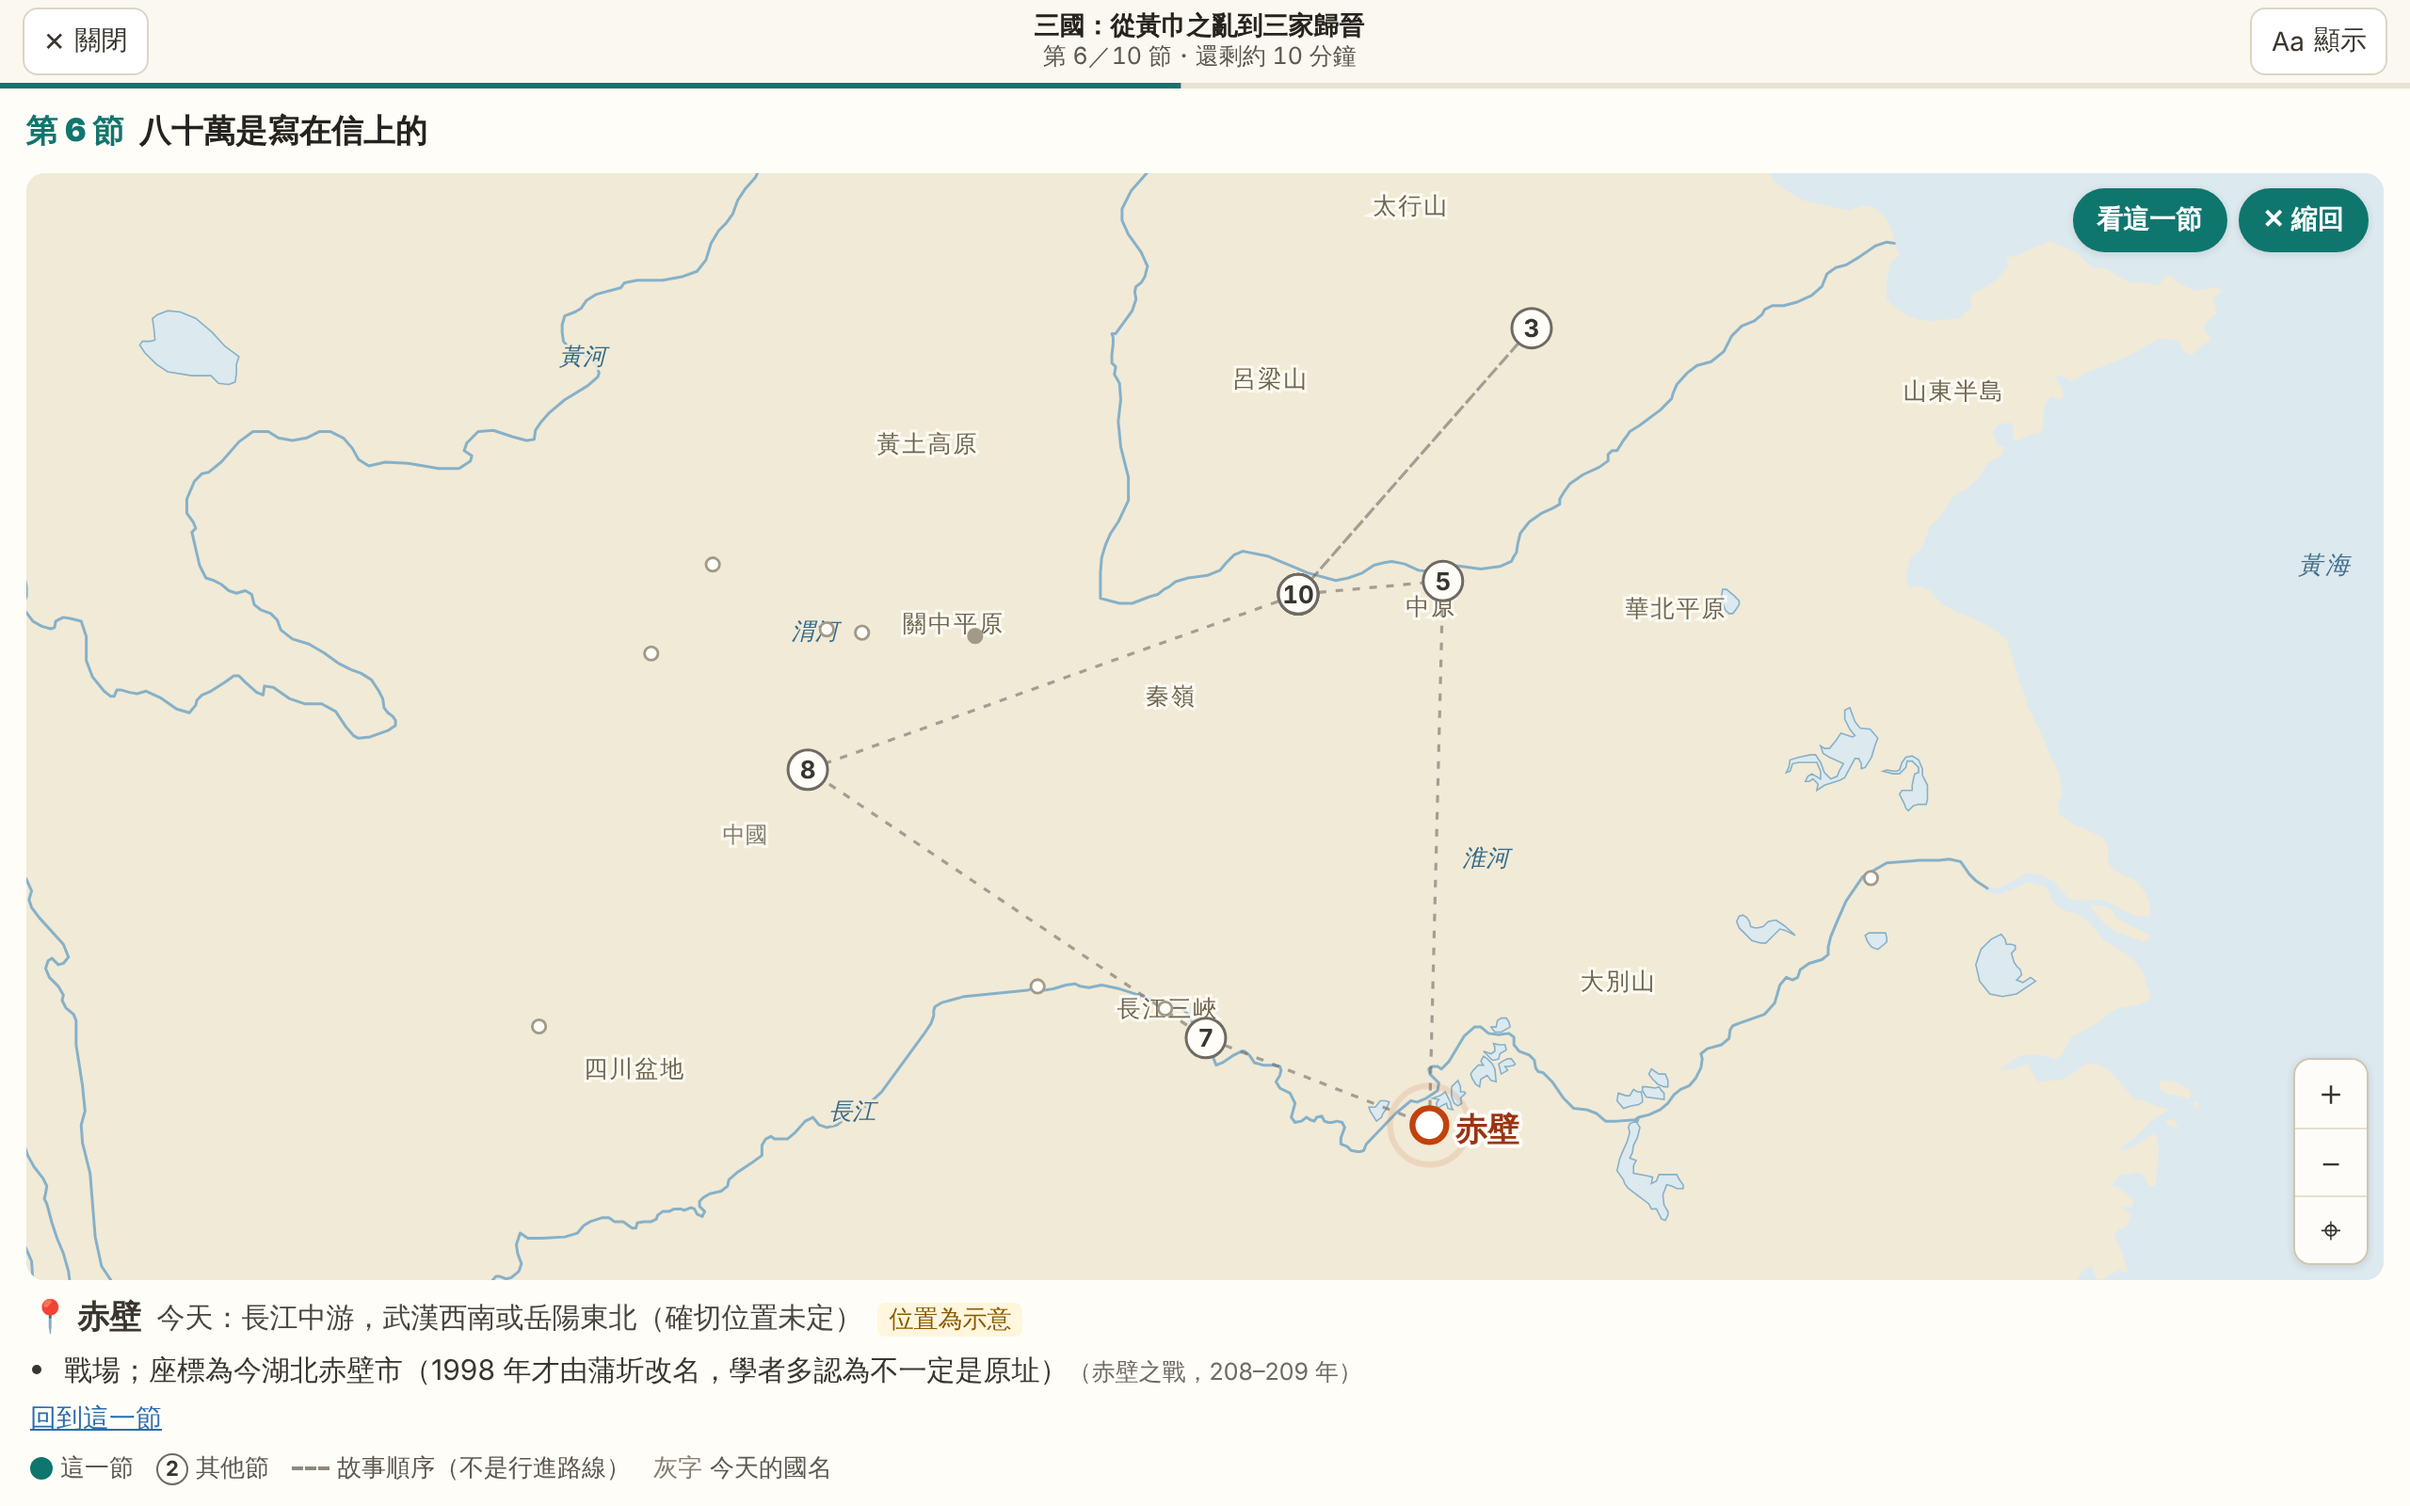
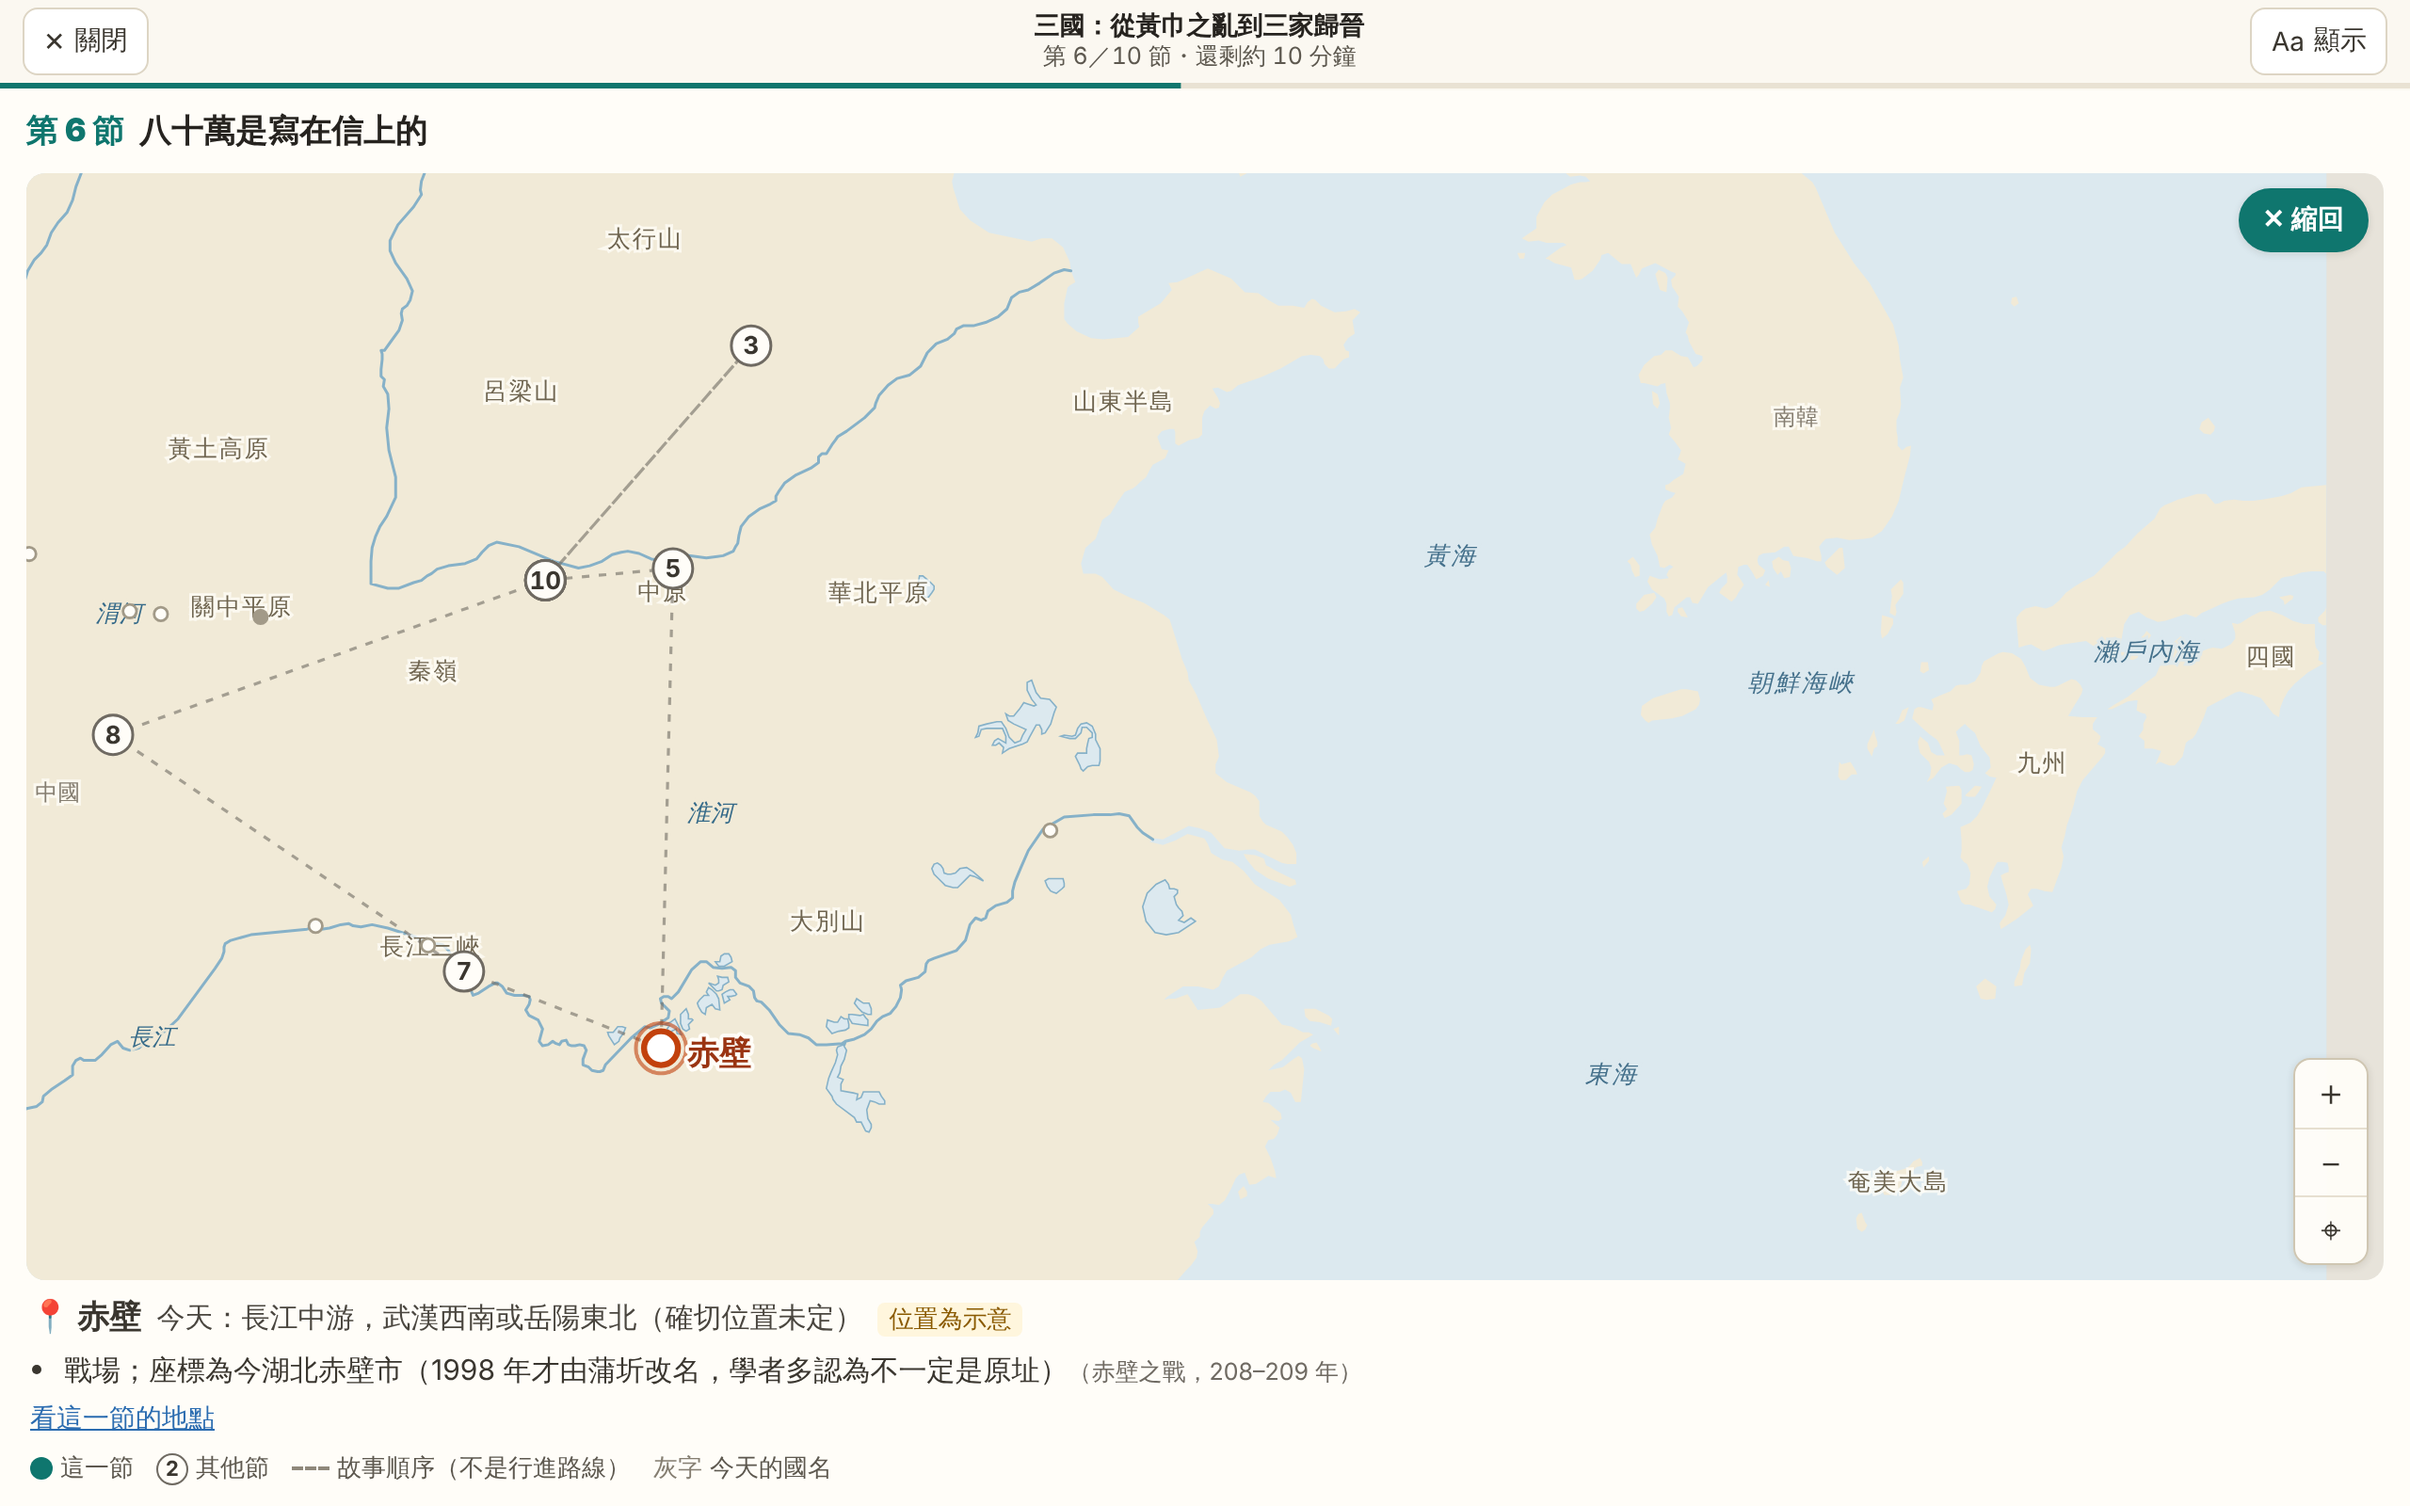
故事地圖畫面固定：換節不移動，只有點變色，移動縮放由讀者自己來；文字欄在左邊區域置中
Claude-Session: https://claude.ai/code/session_01JFJ5rc4L6ADBaQRGoxqdCd

diff --git a/src/components/StoryMap.tsx b/src/components/StoryMap.tsx
@@ -50,10 +50,9 @@ const LABEL_FS: Record<string, number> = { o: 13, r: 12.5, c: 12, v: 12.5 };
 export const StoryMap = memo(function StoryMap({ doc, byId, sec, hot, focus, onFocus, onSection, compact }: Props) {
   const [data, setData] = useState<StoryMapData | null>(null);
   const [failed, setFailed] = useState(false);
-  const [all, setAll] = useState(false);
   // 放大：整個畫面都是地圖（Esc 或「縮回」關掉）
   const [big, setBig] = useState(false);
-  // 讀者自己拖曳、縮放過；換節或按「回到這一節」就回到自動
+  // ⌖ 按一次加一，地圖回到整篇故事的範圍
   const [reset, setReset] = useState(0);
   const dragged = useRef(false);
   const box = useRef<HTMLDivElement>(null);
@@ -69,7 +68,6 @@ export const StoryMap = memo(function StoryMap({ doc, byId, sec, hot, focus, onF
     setSize({ w: el.clientWidth, h: el.clientHeight });
     return () => ro.disconnect();
   }, []);
-  useEffect(() => { setAll(false); }, [sec]);
   useEffect(() => {
     if (!big) return;
     const onKey = (e: KeyboardEvent) => { if (e.key === 'Escape') { e.stopPropagation(); setBig(false); } };
@@ -78,31 +76,39 @@ export const StoryMap = memo(function StoryMap({ doc, byId, sec, hot, focus, onF
   }, [big]);
 
   const secPlaces = useMemo(() => places.map((p, i) => (p.secs.includes(sec) ? i : -1)).filter((i) => i >= 0), [places, sec]);
-  // 目標畫面：這一節（加上讀者點的地點）或全篇
-  const target = useMemo(() => {
-    const ids = all || !secPlaces.length ? places.map((_, i) => i) : [...secPlaces, ...(focus != null && !secPlaces.includes(focus) ? [focus] : [])];
-    return fit(ids.map((i) => [places[i].lat, places[i].lng]), size.w, size.h, 0.14);
-    // eslint-disable-next-line react-hooks/exhaustive-deps
-  }, [all, secPlaces, places, focus, size, reset]);
-
-  // 換節時地圖平滑移過去（約 0.45 秒）；不喜歡動畫的人直接跳
-  const [view, setView] = useState<View>(target);
+  // 地圖畫面固定（ZL 2026-11-14）：一開始放進整篇故事的所有地點，換節時畫面不動，只有點的顏色變；
+  // 要移動、縮放由讀者自己來（拖曳、滾輪、兩指、＋－），⌖ 回到整篇的範圍
+  const [view, setView] = useState<View>({ cx: 128, cy: 100, k: 1 });
   const cur = useRef(view); cur.current = view;
-  const first = useRef(true);
-  useEffect(() => {
-    if (size.w <= 0) return;
+  const fitted = useRef(false);
+  const animTo = (b: View) => {
     const reduce = typeof matchMedia === 'function' && matchMedia('(prefers-reduced-motion: reduce)').matches;
-    if (first.current || reduce) { first.current = false; setView(target); return; }
-    const a = cur.current, b = target, t0 = performance.now();
-    let raf = 0;
+    if (reduce) { setView(b); return; }
+    const a = cur.current, t0 = performance.now();
     const step = (now: number) => {
-      const t = Math.min(1, (now - t0) / 450), e = 1 - (1 - t) ** 3;
+      const t = Math.min(1, (now - t0) / 400), e = 1 - (1 - t) ** 3;
       setView({ cx: a.cx + (b.cx - a.cx) * e, cy: a.cy + (b.cy - a.cy) * e, k: Math.exp(Math.log(a.k) + (Math.log(b.k) - Math.log(a.k)) * e) });
-      if (t < 1) raf = requestAnimationFrame(step);
+      if (t < 1) requestAnimationFrame(step);
     };
-    raf = requestAnimationFrame(step);
-    return () => cancelAnimationFrame(raf);
-  }, [target, size.w]);
+    requestAnimationFrame(step);
+  };
+  const whole = () => fit(places.map((p) => [p.lat, p.lng]), size.w, size.h, 0.08);
+  useEffect(() => { if (size.w > 0 && !fitted.current) { fitted.current = true; setView(whole()); } }, [size.w]); // eslint-disable-line react-hooks/exhaustive-deps
+  // 地圖框變大變小（下方說明行數不同、放大成全螢幕）時，左上角固定，地圖內容不跟著跑
+  const prevSize = useRef(size);
+  useEffect(() => {
+    const a = prevSize.current; prevSize.current = size;
+    if (!fitted.current || a.w <= 0 || (a.w === size.w && a.h === size.h)) return;
+    setView((v) => ({ ...v, cx: v.cx + (size.w - a.w) / 2 / v.k, cy: v.cy + (size.h - a.h) / 2 / v.k }));
+  }, [size]);
+  useEffect(() => { if (reset && size.w > 0) animTo(whole()); }, [reset]); // eslint-disable-line react-hooks/exhaustive-deps
+  // 讀者點了某個地點（內文地名或清單），而那個點不在畫面裡：只平移把它帶進來，不改縮放
+  useEffect(() => {
+    if (focus == null || size.w <= 0) return;
+    const p = places[focus]; if (!p) return;
+    const v = cur.current, x = (X(p.lng) - v.cx) * v.k + size.w / 2, y = (Y(p.lat) - v.cy) * v.k + size.h / 2, m = 40;
+    if (x < m || y < m || x > size.w - m || y > size.h - m) animTo({ ...v, cx: X(p.lng), cy: Y(p.lat) });
+  }, [focus]); // eslint-disable-line react-hooks/exhaustive-deps
 
   const { w, h } = size;
   const sx = (lng: number) => (X(lng) - view.cx) * view.k + w / 2;
@@ -238,13 +244,12 @@ export const StoryMap = memo(function StoryMap({ doc, byId, sec, hot, focus, onF
         {!data && !failed && <p className="sm-msg">地圖載入中…</p>}
         {failed && <p className="sm-msg">地圖載入失敗。<button className="link" onClick={() => { setFailed(false); loadMap(doc.id).then(setData).catch(() => setFailed(true)); }}>重試</button></p>}
         <div className="sm-tools">
-          <button className="sm-zoom" onClick={() => setAll((v) => !v)} aria-pressed={all} title={all ? '回到這一節的地點' : '看整篇故事走過的地方'}>{all ? '看這一節' : '看全篇'}</button>
           <button className="sm-zoom big" onClick={() => setBig((v) => !v)} aria-pressed={big}>{big ? '✕ 縮回' : '⛶ 放大'}</button>
         </div>
         <div className="sm-pm" role="group" aria-label="縮放地圖">
           <button onClick={() => zoomAt(1.6)} aria-label="放大一點">＋</button>
           <button onClick={() => zoomAt(1 / 1.6)} aria-label="縮小一點">－</button>
-          <button onClick={() => setReset((n) => n + 1)} aria-label="回到這一節的範圍" title="回到這一節的範圍">⌖</button>
+          <button onClick={() => setReset((n) => n + 1)} aria-label="回到整篇故事的範圍" title="回到整篇故事的範圍">⌖</button>
         </div>
       </div>
       <div className="sm-cap" aria-live="polite">
@@ -252,7 +257,7 @@ export const StoryMap = memo(function StoryMap({ doc, byId, sec, hot, focus, onF
           <div className="sm-focus">
             <b>📍 {shortName(fp)}</b>{fp.m && <span className="sm-today">今天：{fp.m}</span>}{fp.ap && <span className="sm-ap">位置為示意</span>}
             <ul>{fp.roles.slice(0, 3).map((r, j) => { const c = byId.get(r.card); return <li key={j}>{r.role}{c && <small>（{c.name}，{fmtRange(c.time.start, c.time.end)}）</small>}</li>; })}</ul>
-            <button className="link" onClick={() => onFocus(null)}>回到這一節</button>
+            <button className="link" onClick={() => onFocus(null)}>看這一節的地點</button>
           </div>
         ) : secPlaces.length ? (
           <div className="sm-list"><span>第 {sec + 1} 節的地點</span>{secPlaces.map((i) => <button key={i} className={hotSet.has(i) ? 'hot' : ''} onClick={() => onFocus(i)} title={places[i].m ? `今天：${places[i].m}` : undefined}>{shortName(places[i])}</button>)}</div>

diff --git a/src/components/story-map.css b/src/components/story-map.css
@@ -80,13 +80,16 @@
 
 /* 寬螢幕下拉模式：右欄整欄是地圖；大標縮成地圖下方一排編號 */
 @media (min-width: 1000px) {
-  .sr-scroll .sr-wrap:has(.sr-side.has-map) { max-width: 1500px; grid-template-columns: minmax(0, calc(40 * var(--sr-fs))) clamp(400px, 42vw, 720px); column-gap: 28px; }
+  /* 文字欄在左邊區域裡置中（左右留白一樣），不要貼著左邊 */
+  .sr-scroll .sr-wrap:has(.sr-side.has-map) { max-width: 1560px; padding-left: 32px; padding-right: 20px; grid-template-columns: minmax(0, 1fr) clamp(380px, 38vw, 680px); column-gap: 40px; justify-content: stretch; }
+  .sr-scroll .sr-wrap:has(.sr-side.has-map) .sr-page { max-width: calc(40 * var(--sr-fs)); margin: 0 auto; }
   .sr-side.has-map { display: flex; flex-direction: column; overflow: hidden; height: calc(100vh - 78px); max-height: none; top: 12px; padding: 10px 10px 8px; }
   .sr-side.has-map .sr-side-map { flex: 1 1 auto; min-height: 0; display: flex; flex-direction: column; }
   .sr-side.has-map .sr-side-map > .sm { flex: 1 1 auto; }
 }
 .sr-strip { flex: none; margin-top: 8px; padding-top: 8px; border-top: 1px solid #eee7d8; }
-.sr-strip-now { margin: 0 0 6px; font-size: 15px; font-weight: 700; color: #26231f; line-height: 1.4; }
+.sr-strip-now { margin: 0 0 6px; font-size: 15px; font-weight: 700; color: #26231f; line-height: 1.4; white-space: nowrap; overflow: hidden; text-overflow: ellipsis; }
+.sr-side-map .sm-cap { min-height: 76px; }
 .sr-strip-now span { color: var(--story, #0f766e); margin-right: 6px; }
 .sr-strip ol { display: flex; flex-wrap: wrap; gap: 5px; margin: 0; padding: 0; list-style: none; }
 .sr-strip button { font: inherit; font-size: 14px; font-weight: 700; min-width: 34px; height: 34px; padding: 0 6px; border-radius: 17px; border: 1px solid var(--story-line, #b6e2dc); background: #fff; color: var(--story, #0f766e); cursor: pointer; font-variant-numeric: tabular-nums; }

diff --git a/docs/stories.md b/docs/stories.md
@@ -111,6 +111,7 @@ npm run validate                                  # 全站檢查（含故事）
 
 - **不寫新資料**：地點、今天的地名、「位置為示意」、角色說明都來自各站卡片的 `place.locations`；路線來自卡片的 `routes`。卡片地點改了，重跑 `npm run build:index` 地圖就跟著改。
 - 2026-11-14 ZL 嫌地圖太小、看得吃力 → 選「右欄整欄給地圖，大標縮成地圖下方一排編號」；地名字 15px（放大 17px）、點與編號加大。
+- ZL 2026-11-14：地圖畫面不要跟著小節移動，只有點變色；移動縮放由讀者自己來（⌖ 回到整篇範圍）。點內文地名時，若那個點在畫面外才平移帶進來。文字欄在左邊區域置中。
 - 地圖上：● 這一節的地點（空心＝位置為示意）；橘色＝正在讀的段落提到的地點，或讀者點的地點；①②③ 其他節（點了跳過去）；虛線＝**故事順序，不是行進路線**；棕線＝卡片上的路線；灰字＝今天的國名。
 - 內文地名：每段第一次出現的地名（各站卡片的 `name_ancient`，含括號裡的別名）會有點狀底線，點了地圖移過去並說明今天在哪裡。國名、洲名（中國、美國、希臘…）不標，因為地圖上只能指到一個示意點。
 - 程式：`scripts/lib/storyMap.ts`（地點清單＋裁切陸地／河流／湖泊／地名）→ 故事 json 多 `places`、`secPt`、`hasMap`；`public/data/stories/<id>.map.json` 另存。畫面 `src/components/StoryMap.tsx`＋`story-map.css`（React.lazy，文字先出來，空閒時才下載地圖；手機按了才下載）。河流湖泊 `npx tsx scripts/fetch-rivers.ts` 產生 `data/ne/rivers-lakes-50m.json`。
